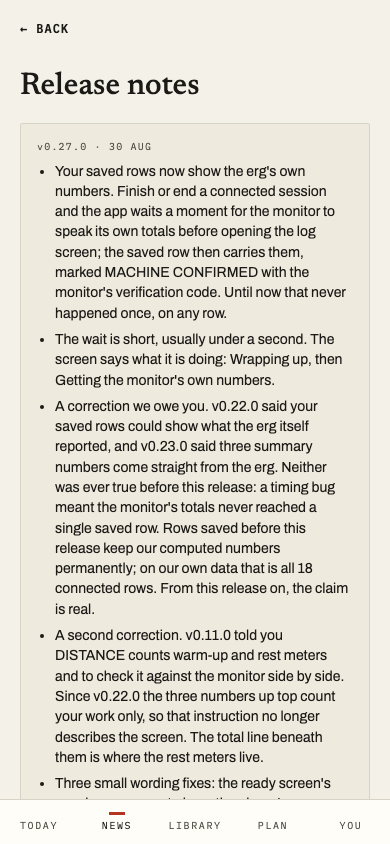
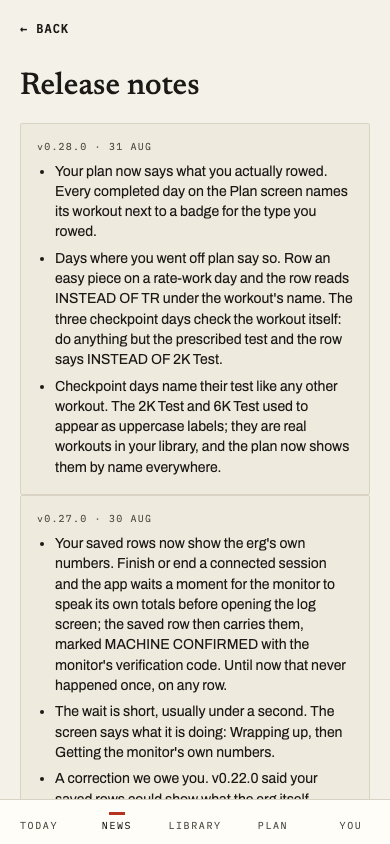
v0.28.0 release notes: the plan says what you rowed (#237)
Range v0.27.0..main = 3 merges, each accounted per RF15 (no --merges):
#233 is all three items; #234 (agent docs) and #235 (test infra and a
shell guard) ship a tester nothing and get no note.

First real use of the shared pin: NEWEST_RELEASE_VERSION bumps in ONE
place and both suites follow. news.spec's positional order list shifts
down one; count 26 -> 27. releases.png and news.png regenerated (the
notes ARE a layout change on those screens); 21 drift captures reverted
unstaged, checked by status this time.

Claude-Session: https://claude.ai/code/session_01Tug53SpxQ4PVXkTVHM8bZL

Changed region(s): [[0.0923, 0.1848, 0.8923, 0.955]]

diff --git a/app/e2e/news.spec.ts b/app/e2e/news.spec.ts
@@ -184,33 +184,34 @@ test("/news/releases lists every version, newest first", async ({ page }) => {
   // deliberately fails here — that is this pin's job, and it is why the
   // title no longer names a number that goes stale every tag.
   const versions = page.locator(".news-release-version");
-  await expect(versions).toHaveCount(26);
+  await expect(versions).toHaveCount(27);
   await expect(versions.nth(0)).toContainText(NEWEST_RELEASE_VERSION);
-  await expect(versions.nth(1)).toContainText("v0.26.0");
-  await expect(versions.nth(2)).toContainText("v0.25.0");
-  await expect(versions.nth(3)).toContainText("v0.24.0");
-  await expect(versions.nth(4)).toContainText("v0.23.0");
-  await expect(versions.nth(5)).toContainText("v0.22.0");
-  await expect(versions.nth(6)).toContainText("v0.21.0");
-  await expect(versions.nth(7)).toContainText("v0.20.0");
-  await expect(versions.nth(8)).toContainText("v0.19.1");
-  await expect(versions.nth(9)).toContainText("v0.19.0");
-  await expect(versions.nth(10)).toContainText("v0.18.1");
-  await expect(versions.nth(11)).toContainText("v0.18.0");
-  await expect(versions.nth(12)).toContainText("v0.17.0");
-  await expect(versions.nth(13)).toContainText("v0.16.0");
-  await expect(versions.nth(14)).toContainText("v0.15.0");
-  await expect(versions.nth(15)).toContainText("v0.14.0");
-  await expect(versions.nth(16)).toContainText("v0.13.0");
-  await expect(versions.nth(17)).toContainText("v0.12.0");
-  await expect(versions.nth(18)).toContainText("v0.11.0");
-  await expect(versions.nth(19)).toContainText("v0.10.0");
-  await expect(versions.nth(20)).toContainText("v0.9.0");
-  await expect(versions.nth(21)).toContainText("v0.8.0");
-  await expect(versions.nth(22)).toContainText("v0.7.0");
-  await expect(versions.nth(23)).toContainText("v0.5.1");
-  await expect(versions.nth(24)).toContainText("v0.5.0");
-  await expect(versions.nth(25)).toContainText("v0.4.0");
+  await expect(versions.nth(1)).toContainText("v0.27.0");
+  await expect(versions.nth(2)).toContainText("v0.26.0");
+  await expect(versions.nth(3)).toContainText("v0.25.0");
+  await expect(versions.nth(4)).toContainText("v0.24.0");
+  await expect(versions.nth(5)).toContainText("v0.23.0");
+  await expect(versions.nth(6)).toContainText("v0.22.0");
+  await expect(versions.nth(7)).toContainText("v0.21.0");
+  await expect(versions.nth(8)).toContainText("v0.20.0");
+  await expect(versions.nth(9)).toContainText("v0.19.1");
+  await expect(versions.nth(10)).toContainText("v0.19.0");
+  await expect(versions.nth(11)).toContainText("v0.18.1");
+  await expect(versions.nth(12)).toContainText("v0.18.0");
+  await expect(versions.nth(13)).toContainText("v0.17.0");
+  await expect(versions.nth(14)).toContainText("v0.16.0");
+  await expect(versions.nth(15)).toContainText("v0.15.0");
+  await expect(versions.nth(16)).toContainText("v0.14.0");
+  await expect(versions.nth(17)).toContainText("v0.13.0");
+  await expect(versions.nth(18)).toContainText("v0.12.0");
+  await expect(versions.nth(19)).toContainText("v0.11.0");
+  await expect(versions.nth(20)).toContainText("v0.10.0");
+  await expect(versions.nth(21)).toContainText("v0.9.0");
+  await expect(versions.nth(22)).toContainText("v0.8.0");
+  await expect(versions.nth(23)).toContainText("v0.7.0");
+  await expect(versions.nth(24)).toContainText("v0.5.1");
+  await expect(versions.nth(25)).toContainText("v0.5.0");
+  await expect(versions.nth(26)).toContainText("v0.4.0");
 });
 
 test("item 1 / round 4: opening an article from a scrolled News feed lands the reader at the top of its OWN scroller, and ← BACK now restores News's own scroll position (CL item: News scroll memory)", async ({

diff --git a/app/src/news/content/releaseNotes.ts b/app/src/news/content/releaseNotes.ts
@@ -5,6 +5,24 @@ import type { ReleaseNote } from "./types";
 // would notice, and internal-only releases are skipped.
 export const RELEASE_NOTES: ReleaseNote[] = [
   {
+    // v0.28.0 (2026-08-31): range v0.27.0..main = 3 merges before this
+    // notes PR, each accounted per RF15 (`git log v0.27.0..main --oneline`,
+    // no --merges). #233 is all three items. No note: #234 (agent
+    // instruction docs) and #235 (test infrastructure and a shell guard),
+    // neither of which a tester receives. The swap mark is DERIVED (log
+    // vs PLANS plus linked-workout identity, #233's own record); the
+    // deletion-unmarks cost was accepted by James 2026-08-30 and is not
+    // mentioned here because no tester can hit it without deleting a
+    // same-titled personal workout they made themselves.
+    version: "v0.28.0",
+    date: "2026-08-31",
+    items: [
+      "Your plan now says what you actually rowed. Every completed day on the Plan screen names its workout next to a badge for the type you rowed.",
+      "Days where you went off plan say so. Row an easy piece on a rate-work day and the row reads INSTEAD OF TR under the workout's name. The three checkpoint days check the workout itself: do anything but the prescribed test and the row says INSTEAD OF 2K Test.",
+      "Checkpoint days name their test like any other workout. The 2K Test and 6K Test used to appear as uppercase labels; they are real workouts in your library, and the plan now shows them by name everywhere.",
+    ],
+  },
+  {
     // v0.27.0 (2026-08-30): range v0.26.0..main = 17 merges, each accounted
     // per RF15 (`git log v0.26.0..main --oneline`, no --merges). #228 is
     // items 1-2 and the reason corrections 3-4 can ship as a repair rather

diff --git a/app/e2e/releasePin.ts b/app/e2e/releasePin.ts
@@ -16,4 +16,4 @@
  *  claims.
  *
  *  Bump alongside each release-notes PR. */
-export const NEWEST_RELEASE_VERSION = "v0.27.0";
+export const NEWEST_RELEASE_VERSION = "v0.28.0";
